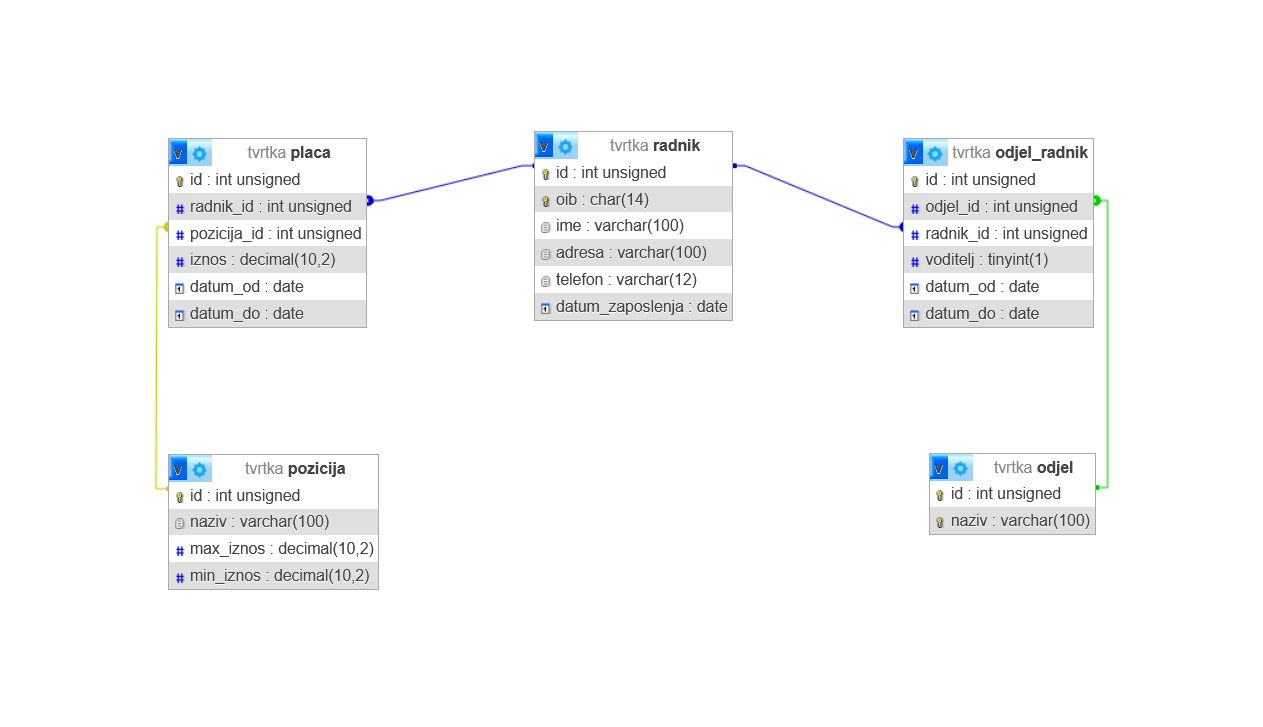
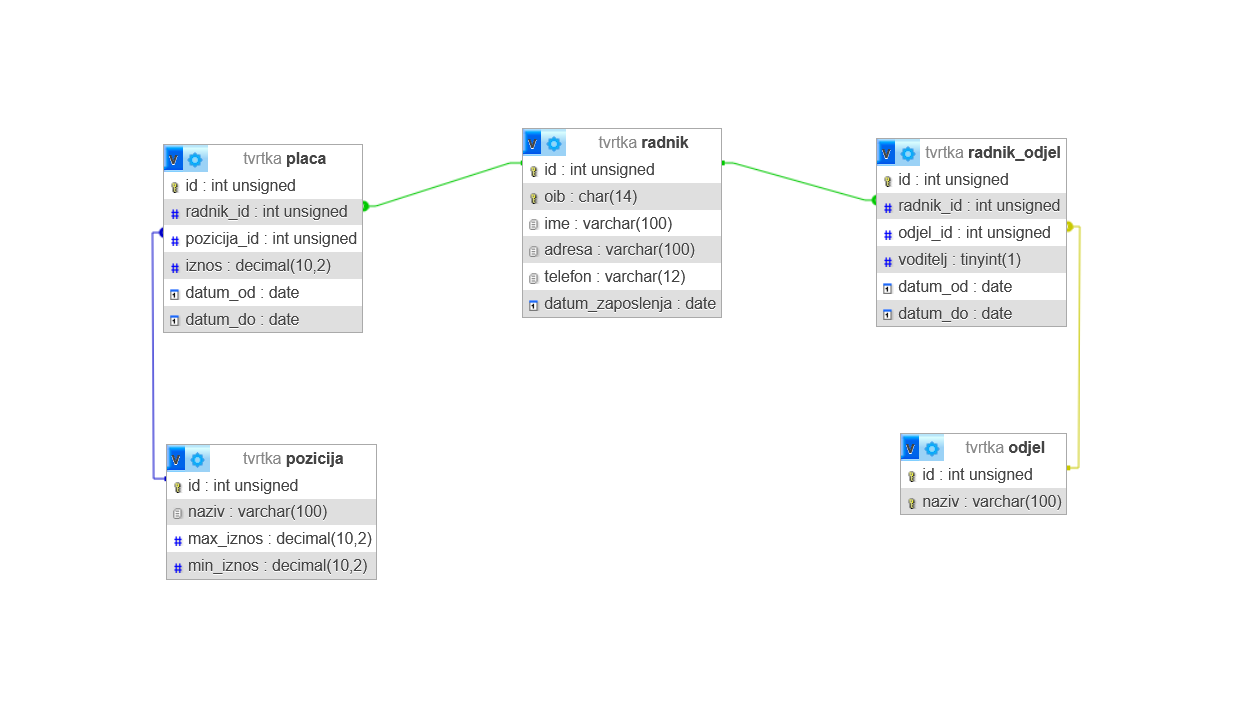
parcijalni finalna verzija

diff --git a/06_parcijalni_ispit/tvrtka_normalizacija.md b/06_parcijalni_ispit/tvrtka_normalizacija.md
@@ -1,17 +1,17 @@
 
 ### Nenormalizirana tablica
 
-| Id  | Zaposlenik | Pozicija | Plaća | Voditelj | Odjel |
-| --- | ---------- | -------- | ----- | -------- | ----- |
+| Id  | Radnik | Pozicija | Plaća | Voditelj | Odjel |
+| --- | ------ | -------- | ----- | -------- | ----- |
 
 
 
 ## 1 NF
 
-### Zaposlenik
+### Radnik
 
-| Id  | Zaposlenik | Pozicija | Plaća | Ime | OIB | Adresa | Telefon | Datum_zaposlenja |
-| --- | ---------- | -------- | ----- | --- | --- | ------ | ------- | ---------------- | 
+| Id  | Pozicija | Plaća | Ime | OIB | Adresa | Telefon | Datum_zaposlenja |
+| --- | -------- | ----- | --- | --- | ------ | ------- | ---------------- | 
 
 
 ### Odjel
@@ -23,22 +23,16 @@
 
 ## 2 NF
 
-### Zaposlenik
+### Radnik
 
 | Id  | Ime | OIB | Adresa | Telefon | Datum_zaposlenja |
 | --- | --- | --- | ------ | ------- | ---------------- | 
 
 
-### Plaća
-
-| Id  | Osnovica | Zaposlenik_id | Datum_od | Datum_do | 
-| --- | -------- | ------------- | -------- | -------- | 
-
-
 ### Pozicija
 
-| Id  | Naziv | Koeficijent | Datum_od | Datum_do | 
-| --- | ----- | ----------- | -------- | -------- |
+| Id  | Naziv | Plaća | Max_iznos | Min_iznos | 
+| --- | ----- | ----- | --------- | --------- |
 
 
 ### Odjel
@@ -50,7 +44,7 @@
 
 ## 3 NF
 
-### Zaposlenik
+### Radnik
 
 | Id  | Ime | OIB | Adresa | Telefon | Datum_zaposlenja |
 | --- | --- | --- | ------ | ------- | ---------------- |
@@ -58,35 +52,23 @@
 
 ### Plaća
 
-| Id  | Osnovica | Zaposlenik_id | Datum_od | Datum_do | 
-| --- | -------- | ------------- | -------- | -------- | 
+| Id  | Radnik_id | Pozicija_id | Iznos | Datum_od | Datum_do | 
+| --- | --------- | ----------- | ----- | -------- | -------- | 
 
 
 ### Pozicija
 
-| Id  | Naziv | Koeficijent | 
-| --- | ----- | ----------- |
+| Id  | Naziv | Max_iznos | Min_iznos | 
+| --- | ----- | --------- | --------- |
 
 
-### Pozicija_popis
+### Radnik_odjel
 
-| Id  | Zaposlenik_id | Pozicija_id | Datum_od | Datum_do | 
-| --- | ------------- | ----------- | -------- | -------- |
+| Id  | Radnik_id | Odjel_id | Voditelj | Datum_od | Datum_do | 
+| --- | --------- | -------- | -------- | -------- | -------- |
 
 
 ### Odjel
 
 | Id  | Naziv | 
 | --- | ----- |
-
-
-### Odjel_zaposlenik
-
-| Id  | Odjel_id | Zaposlenik_id | Datum_od | Datum_do | 
-| --- | -------- | ------------- | -------- | -------- |
-
-
-### Voditelj
-
-| Id  | Odjel_id | Zaposlenik_id | Datum_od | Datum_do | 
-| --- | -------- | ------------- | -------- | -------- |
